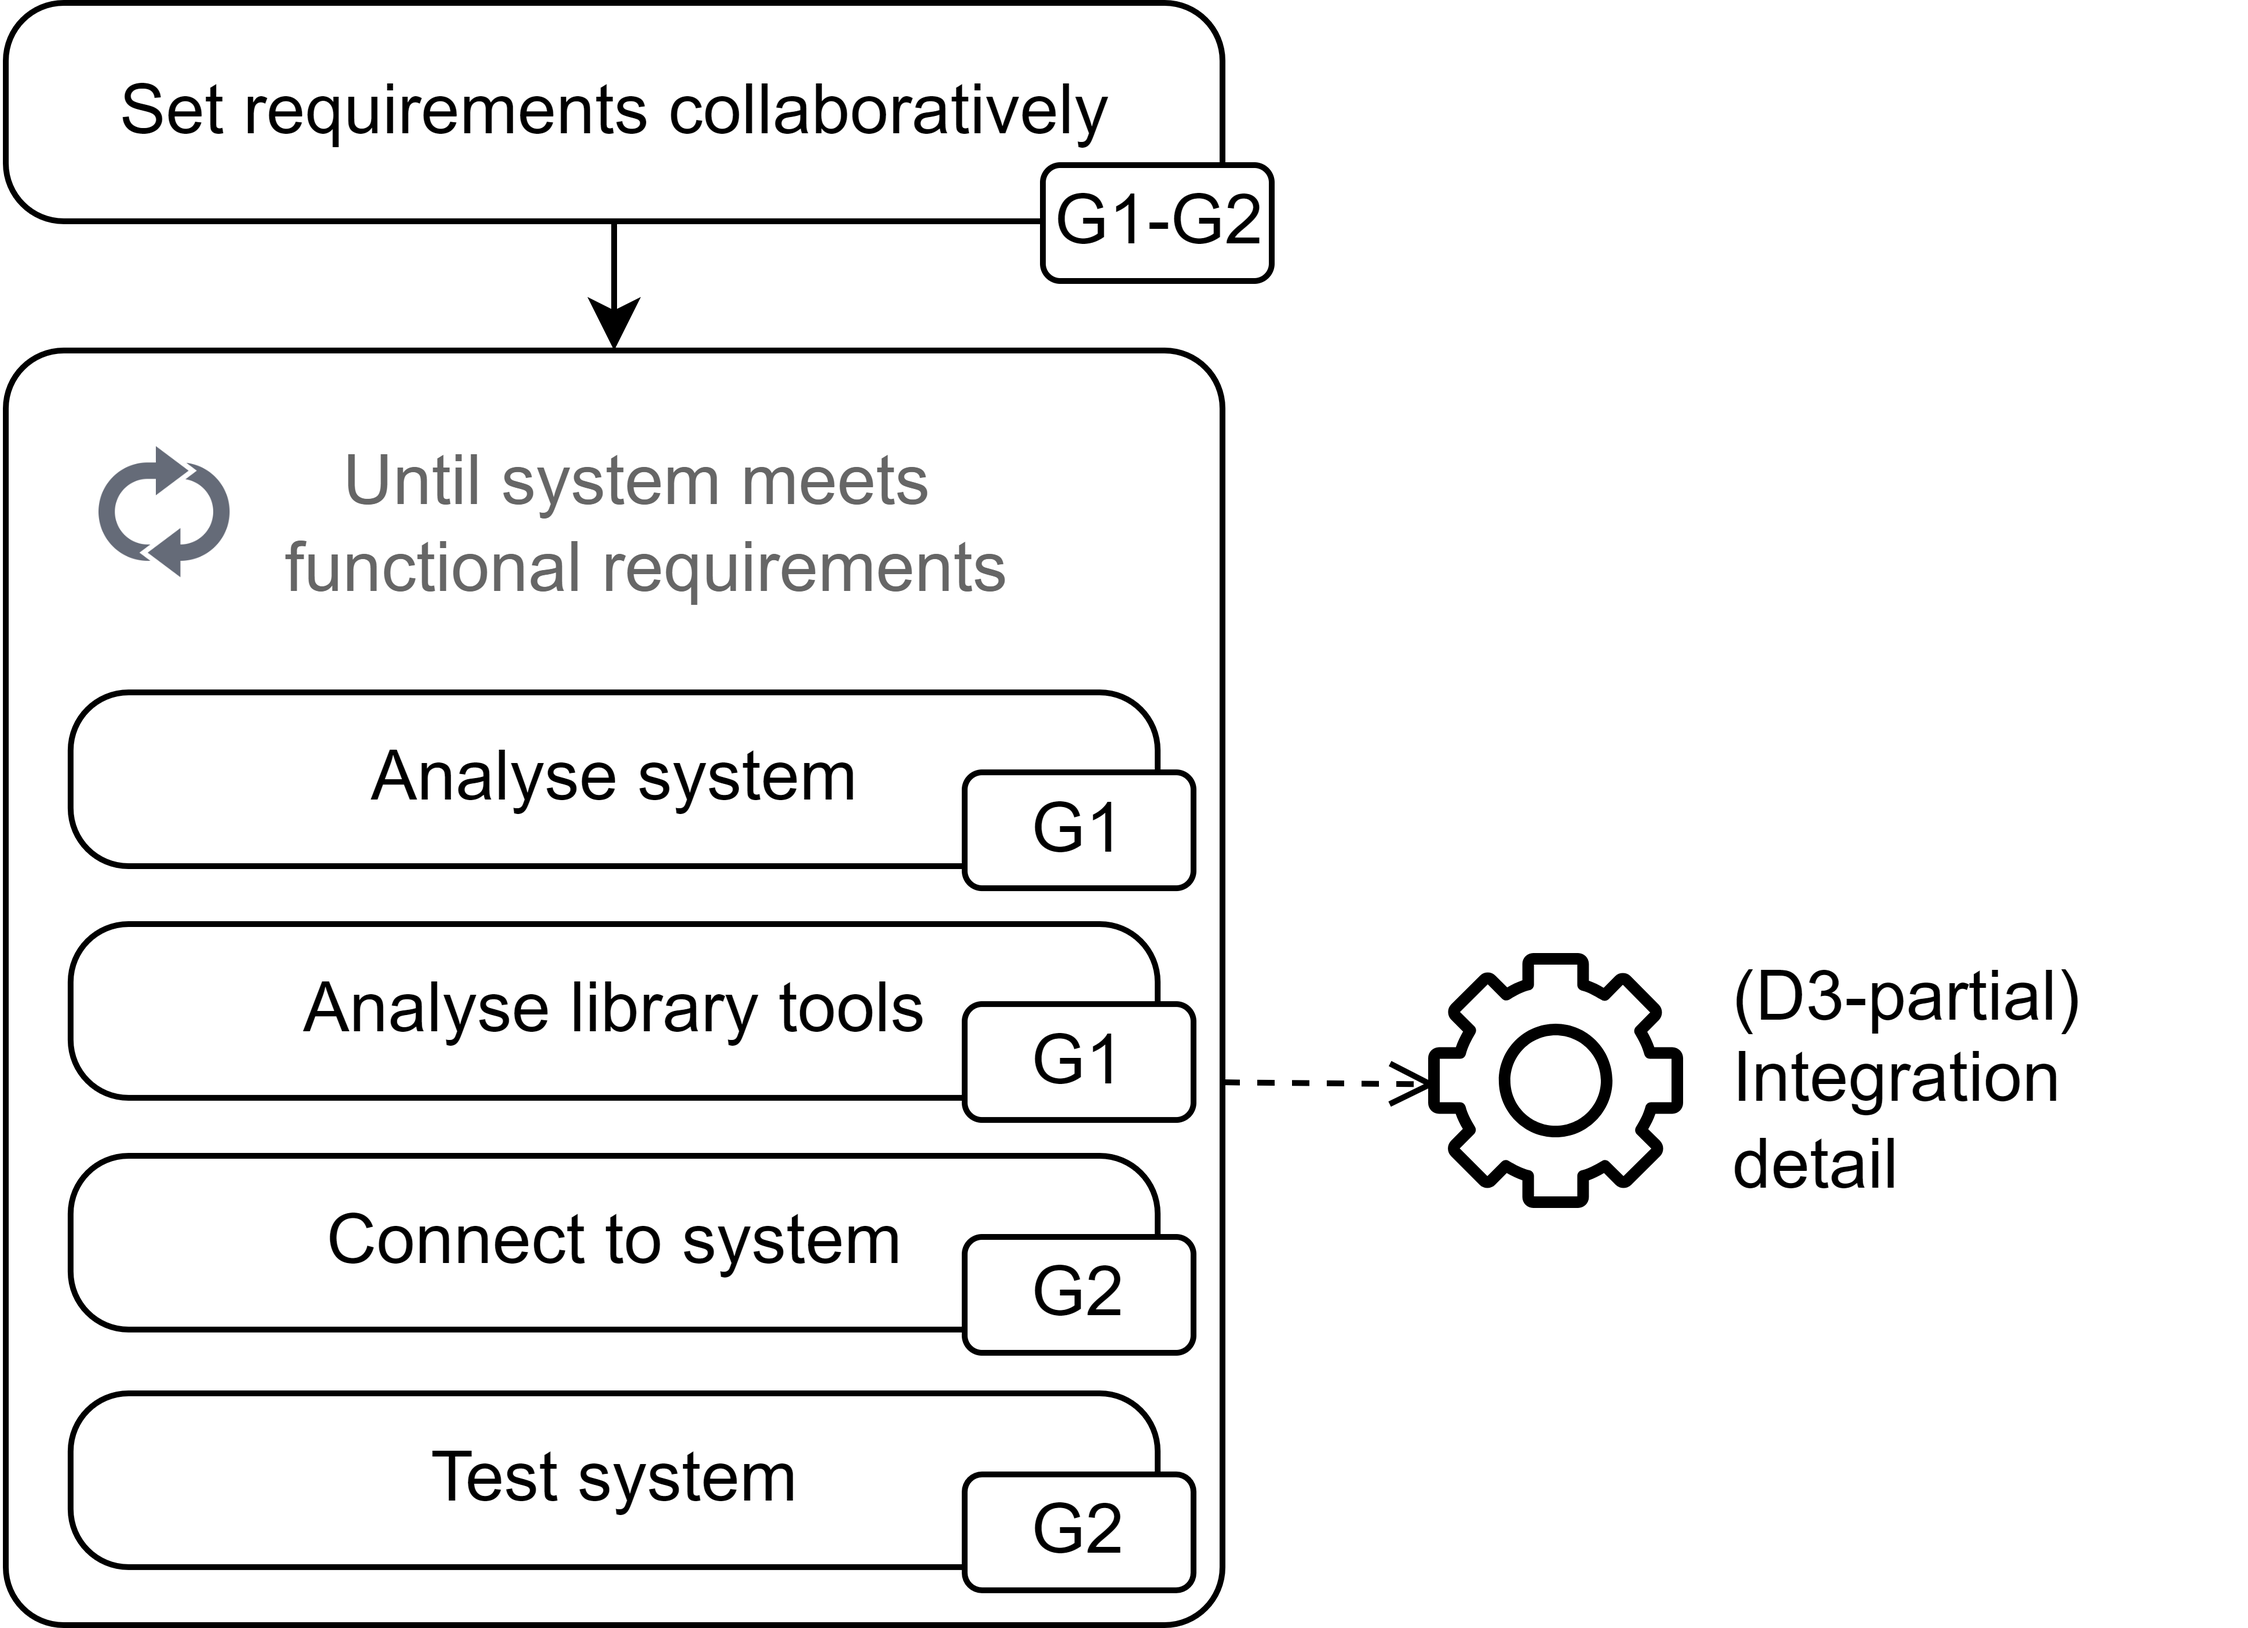
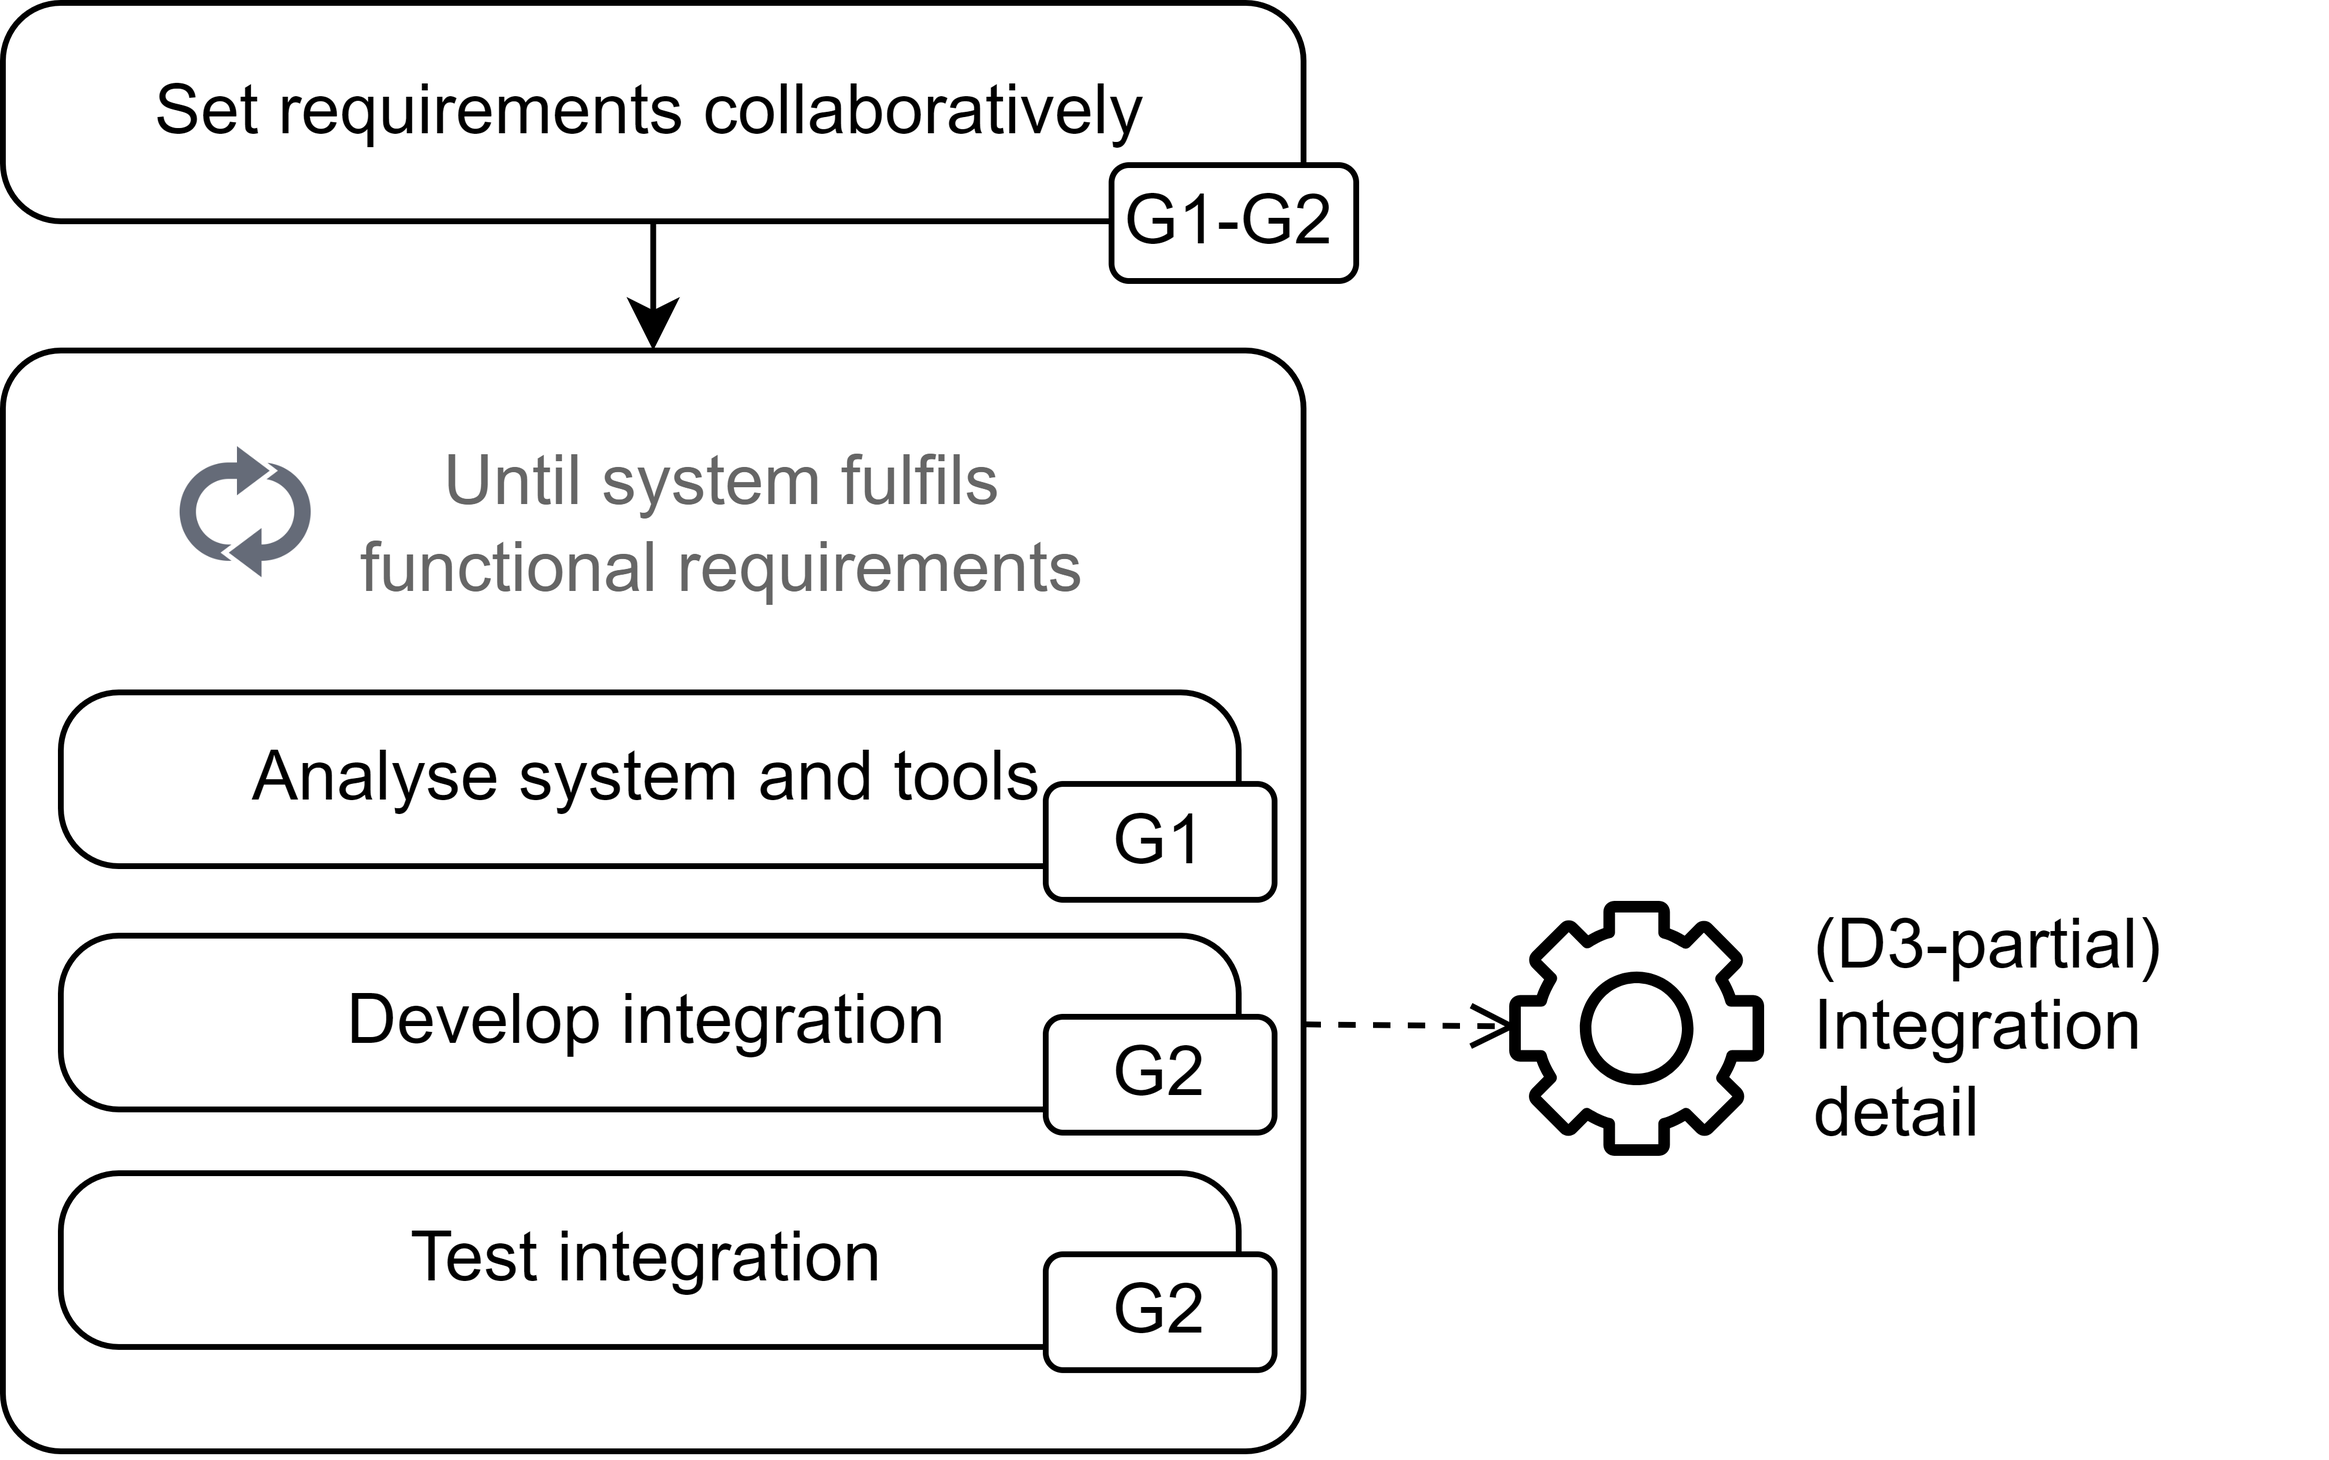
Completed draft of method/intro and method/sys_integration

diff --git a/contents/3-method/1-system_integration.tex b/contents/3-method/1-system_integration.tex
@@ -1,0 +1,49 @@
+This Section explains the method and principles used for the software integration process between PyIceberg and \gls{HopsFS}. This Section is divided into three Subsections: Integration process, describing the activities to be conducted to integrate PyIceberg and \gls{HDFS}; Requirements; and Development environment, detailing the tools and resources that will be used during the integration process.
+
+
+%%%%%  INTEGRATION PROCESS
+\subsection{Integration process}
+\label{subsec:integration_process}
+The integration development process will follow an iterative in Figure \ref{fig:method_code_schema}. This project will require numerous interactions with \gls{HopsFS} maintainers (i.e., the industrial supervisors), since PyIceberg library has to interact with \gls{HopsFS}. This review process creates the need for a feedback loop, allowing the system to fit all the stakeholder requirements, described in Subsection~\ref{subsec:integration_reqs}. This process partially answer \gls{RQ}~1, to which \gls{G}~1-2 are associated, as described in Section~\ref{sec:intro_goals}. The relationships between each process activity and \glspl{G} are here explained:
+
+\begin{enumerate}
+    \item \textbf{Set requirements collaboratively}: this activity is key for the completion of \gls{G}~1-2, as it is an initial system analysis, performed together with the industrial supervisors, who are knowledgeable on Hopsworks' infrastructure. This task sets the project requirements and investigates what needs to be integrated at a high-level abstraction.
+    \item \textbf{Analyse system and tools}: this activity solves \gls{G}~1 performing low-level code analysis on system and PyIceberg function calls, understanding what needs to be developed to integrate \gls{HopsFS} and PyIceberg. This activity is the first of an iterative loop accounting for the requirements fulfillment.
+    \item \textbf{Develop integration}: this activity partially \gls{G}~2, designing and developing a code solution from the information gathered during the analyses above.
+    \item \textbf{Test integration}: this activity partially solves \gls{G}~2, verifying the solution validity with integration tests. Failed integration tests or unfulfilled requirements will triggen a new loop iteration. Otherwise, the integretion process will be concluded.
+\end{enumerate}
+
+This process will produce a part of \gls{D}~3, which is the code implementation for PyIceberg and \gls{HopsFS} integration, including the consideration about the specific tools selected or discarded.
+
+\begin{figure}[!ht]
+    \begin{center}
+      \includegraphics[width=0.6\textwidth]{figures/3-method/method_code.png}
+    \caption[System integration process]{Diagram of the system integration process partially answering \gls{RQ}~1. Each activity is associated to specific \glspl{G}. The process produces part of \gls{D}~3, the integration detail. The loop iterates until the functional requirements (defined in Section \ref{subsec:integration_reqs}) are fulfilled.}
+    \label{fig:method_code_schema}
+    \end{center}
+\end{figure}
+
+
+%%%% REQUIREMENTS
+\subsection{Requirements}
+\label{subsec:integration_reqs}
+A series of requirements are defined in agreement with Hopsworks AB, to create a solution that could be later used by the company, in a production environment. The \textbf{functional requirements} are:
+\begin{enumerate}
+    \item \textbf{Write Iceberg Tables}: the solution should allow to write Iceberg tables on \gls{HopsFS} via the PyIceberg library.
+    \item \textbf{Read Iceberg Tables}: the solution should allow to read Iceberg tables on \gls{HopsFS} via the PyIceberg library.
+\end{enumerate}
+The \textbf{non-functional requirements} are:
+\begin{enumerate}
+    \item \textbf{Consistent}: the solution should be consistent with the current open-source codebase.
+    \item \textbf{Maintainable}: the solution should minimize the need for maintenance and support of the codebase in the future, minimizing changes to open-source code.
+    \item \textbf{Scalable}: the solution should handle read or write operations on Iceberg Tables, up to 100 GB, to support small-scale dataset scenarios.
+\end{enumerate}
+
+
+%%%%% DEVELOPMENT ENVIRONMENT
+\subsection{Development environment}
+The system implementation will be developed by making use of several technologies, here categorized:
+\begin{itemize}
+    \item \textbf{Computing resources}: the system implementation will be developed in a remote environment (\gls{VM}) accessed via \gls{SSH} from a computer terminal. Local development is discarded, due to low reproducibility and complexity of mounting \gls{HopsFS} on a local machine.
+    \item \textbf{Code versioning and shared development}: GitHub will be used for versioning and sharing the developed solution.
+\end{itemize}

diff --git a/contents/3-method/0-intro.tex b/contents/3-method/0-intro.tex
@@ -1,0 +1,1 @@
+This chapter defines two methodologies that will be applied sequentially in this project, answering the two \glspl{RQ} defined in Section~\ref{subsec:researchQuestion}. Section~\ref{sec:system_integration} defines the system integration process that outputs part of \gls{D}~3, i.e., the integration detail. This output will enable the new system evaluation defined in Section~\ref{sec:system_evaluation}, which will output \gls{D}~1, i.e., the results of the experiments. Part of \gls{D}~1 will enable the comparative system evaluation, still defined in Section~\ref{sec:system_evaluation}, which will output \gls{D}~2, i.e.,the results of the comparative experiments. The analysis of \gls{D}~1-2 will be delivered in \gls{D}~3, i.e. this comprehensive thesis report.

diff --git a/contents/3-method/_all.tex b/contents/3-method/_all.tex
@@ -1,5 +1,9 @@
 \input{contents/3-method/0-intro.tex}
 
+\section{System integration}
+  \label{sec:system_integration}
+  \input{contents/3-method/1-system_integration.tex}
+
 \section{System evaluation}
   \label{sec:system_evaluation}
-  \input{contents/3-method/1-system_evaluation.tex}
+  \input{contents/3-method/2-system_evaluation.tex}
